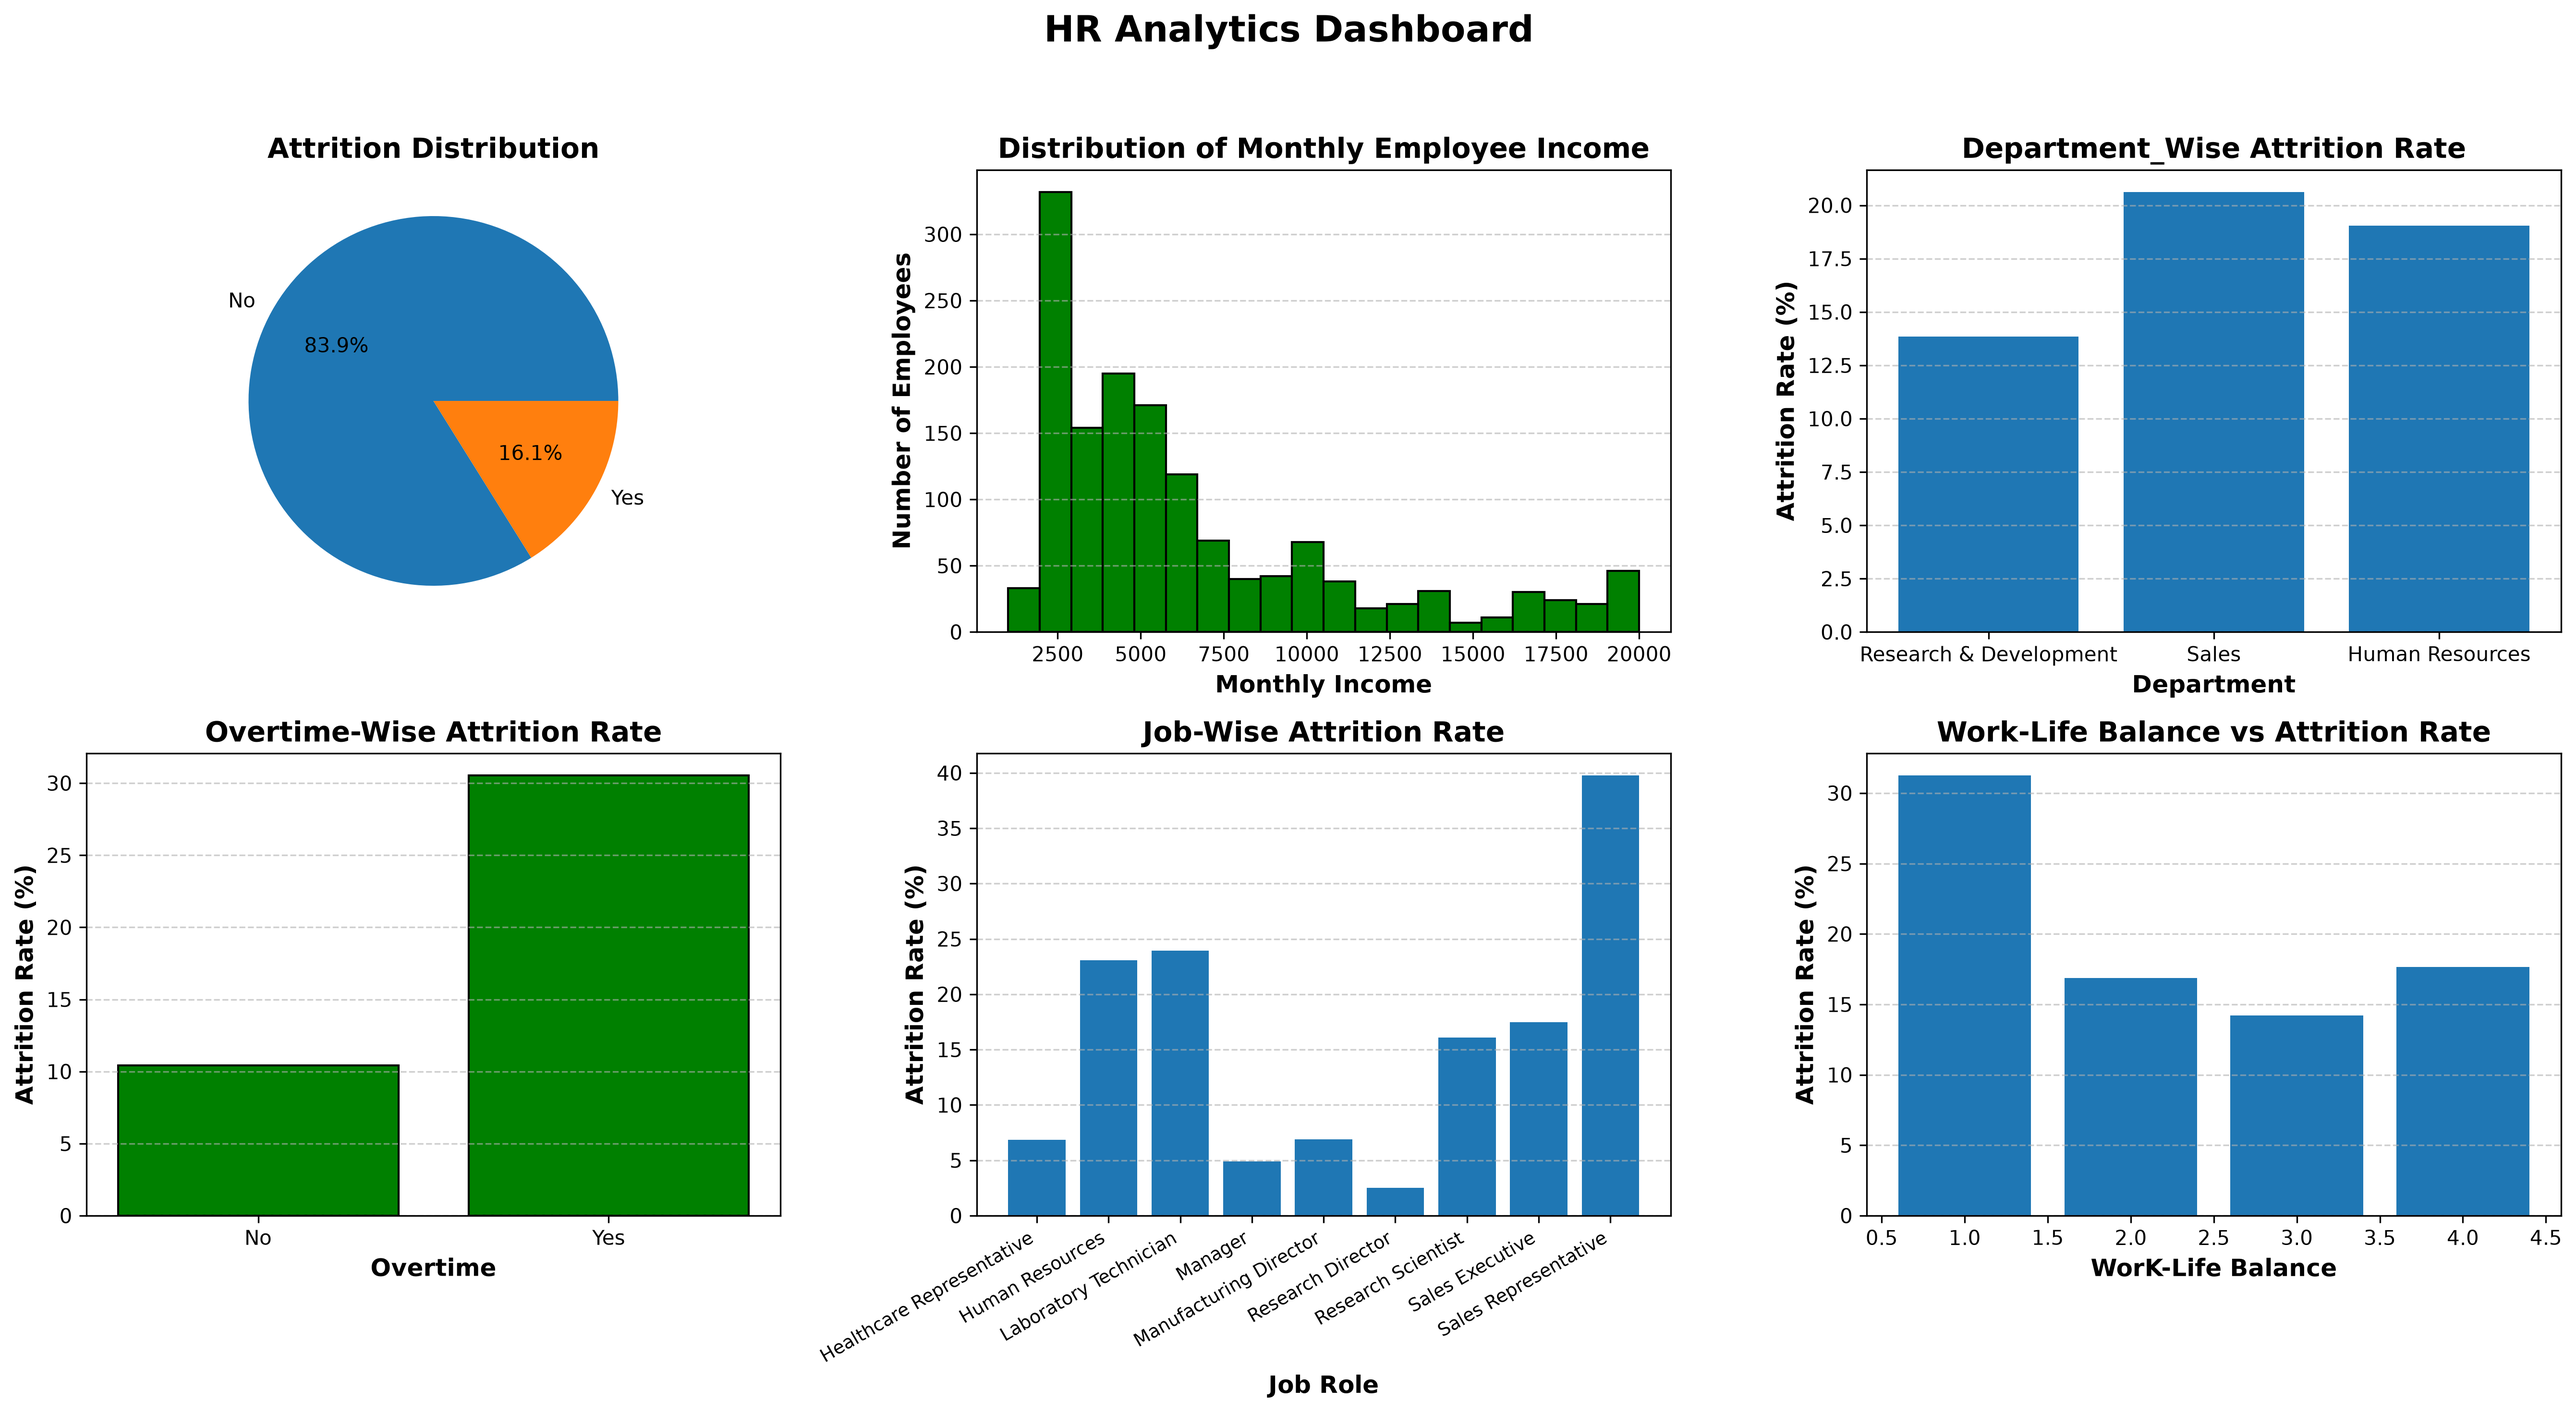
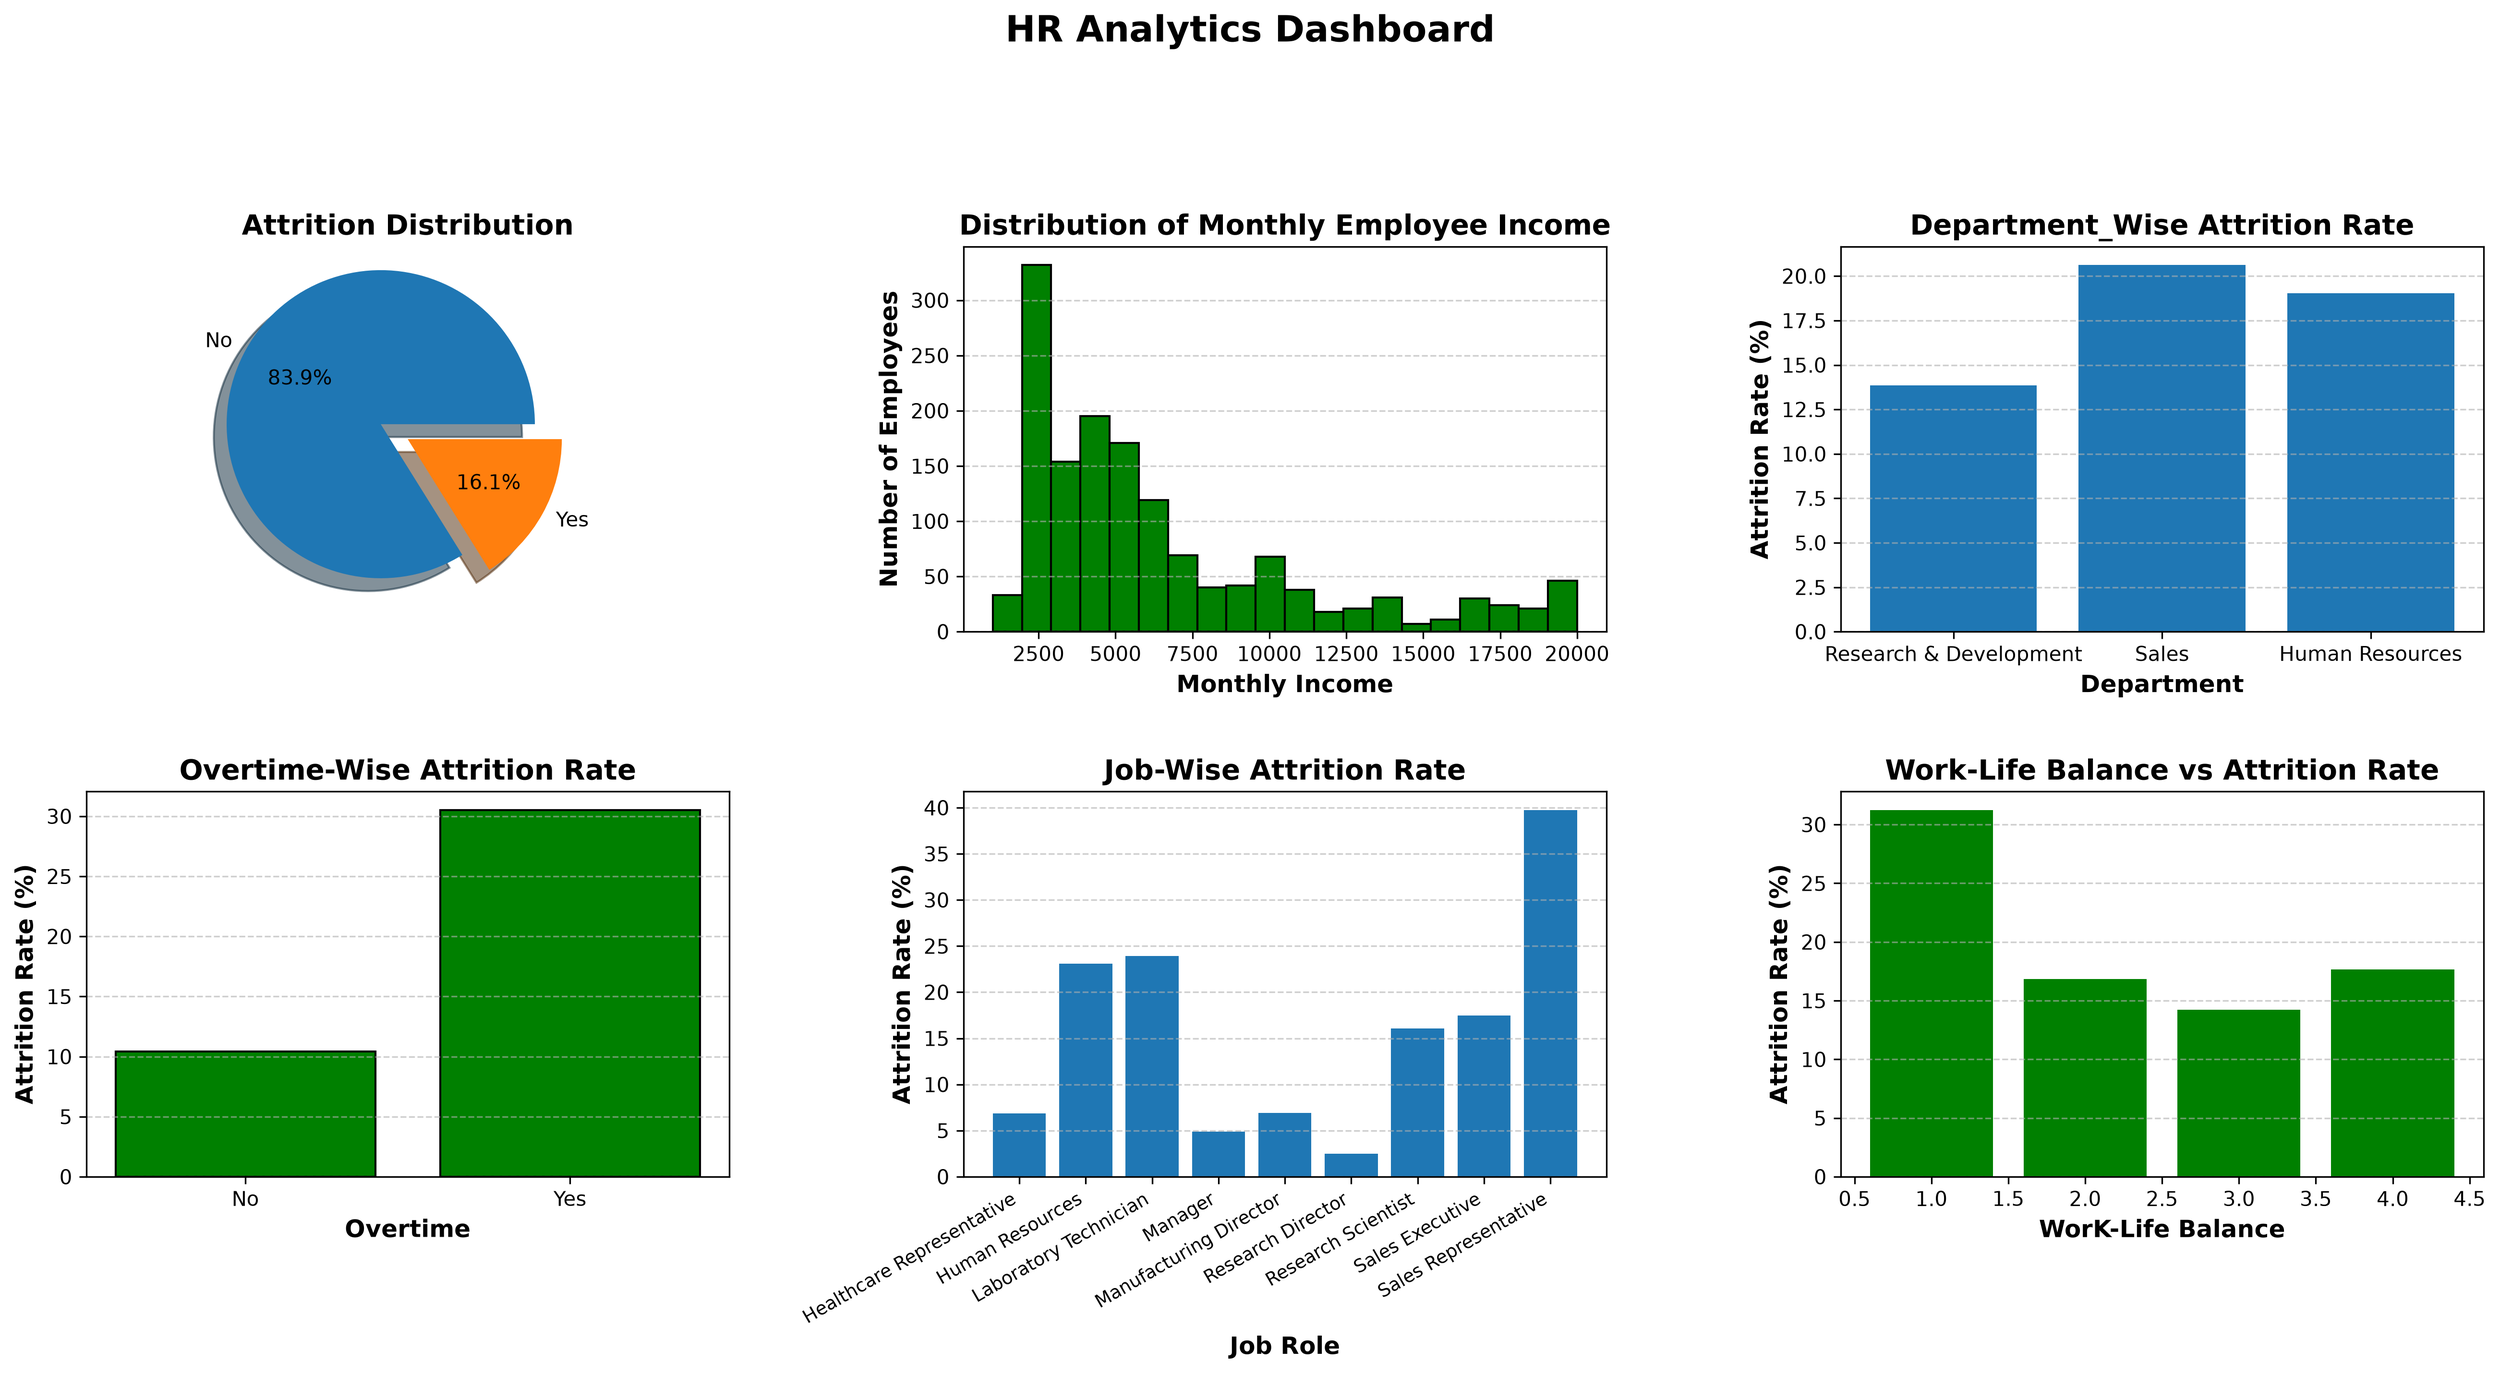
made some changes in chart visualization

diff --git a/src/visualization.py b/src/visualization.py
@@ -285,7 +285,9 @@ def plot_dashboard(df):
     plt.pie(
         attrition.values,
         labels=attrition.index,
-        autopct="%1.1f%%")
+        autopct="%1.1f%%",
+        shadow=True,
+        explode=(0.2,0))
 
     plt.title("Attrition Distribution", fontsize=14, fontweight="bold")
 
@@ -361,7 +363,7 @@ def plot_dashboard(df):
 
     attrition_rate = (yes_attrition/total_employees)*100
 
-    plt.bar(attrition_rate.index , attrition_rate.values)
+    plt.bar(attrition_rate.index , attrition_rate.values, color = "green")
     plt.title("Work-Life Balance vs Attrition Rate", fontsize=14, fontweight="bold")
     plt.xlabel("WorK-Life Balance", fontsize=12, fontweight="bold")
     plt.ylabel("Attrition Rate (%)", fontsize=12, fontweight="bold")
@@ -374,7 +376,7 @@ def plot_dashboard(df):
     fontsize=18,
     fontweight="bold")
 
-    plt.tight_layout(rect=[0, 0, 1, 0.95])
+    plt.tight_layout(rect=[0, 0, 1, 0.95],pad=3)
 
     # Save The Dashboard
     plt.savefig(
